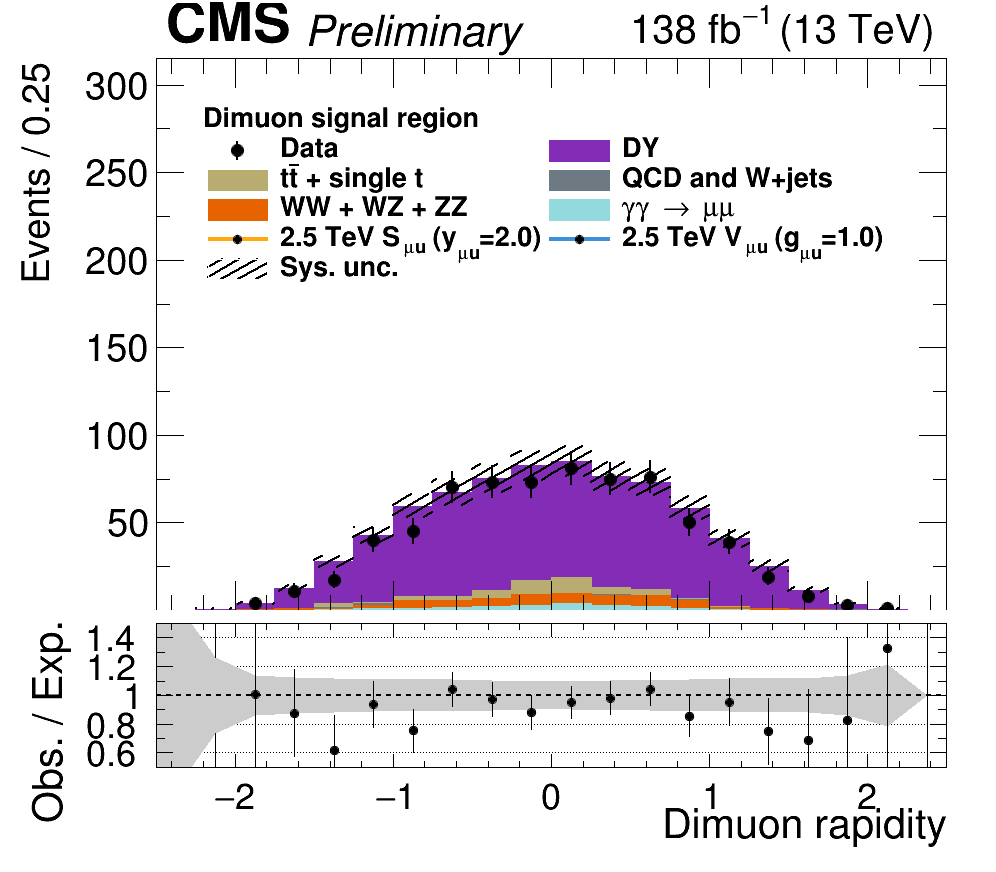
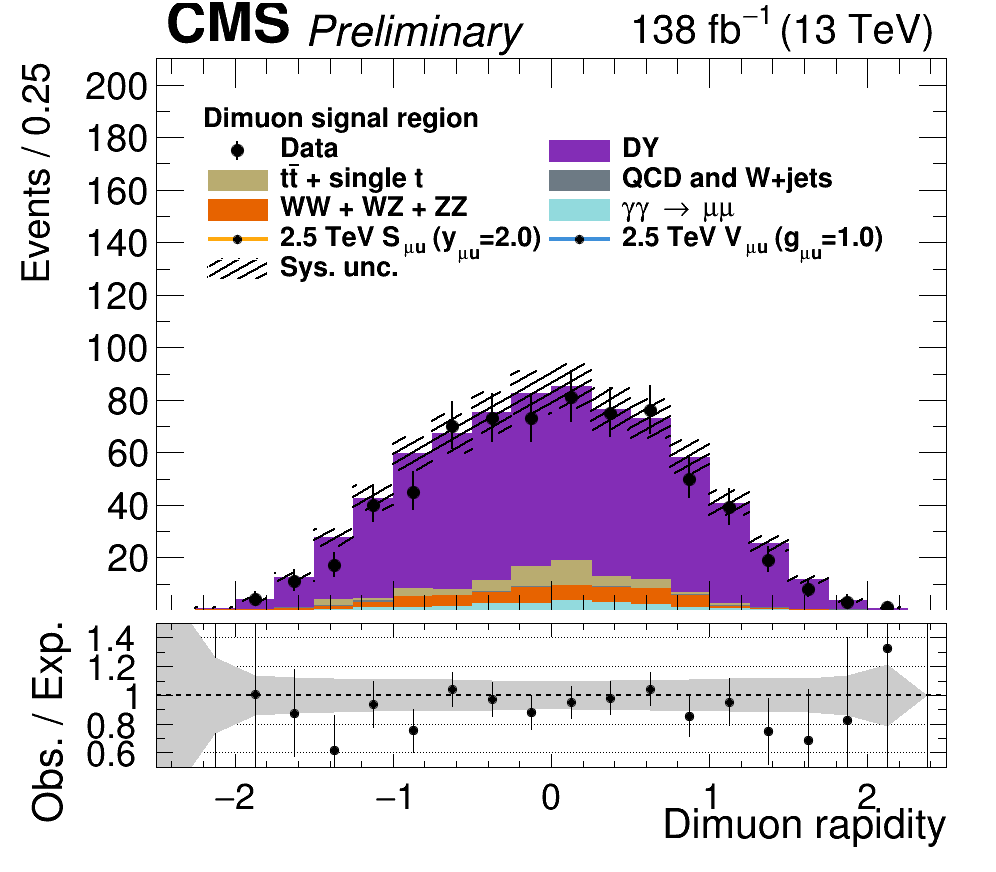
updated ymax for rap

diff --git a/plots/MuMu/draw_cmp_from_saved.C b/plots/MuMu/draw_cmp_from_saved.C
@@ -496,7 +496,7 @@ dy_cost->SetLineColor(DY_color);
     int n_rap_bins = 20;
     float rap_bin_size = 5. / n_rap_bins;
 
-    hmax = 300;
+    hmax = 200;
     // if(year == 2016)
     //     hmax *= 0.25;
     // if(year == 2017)
